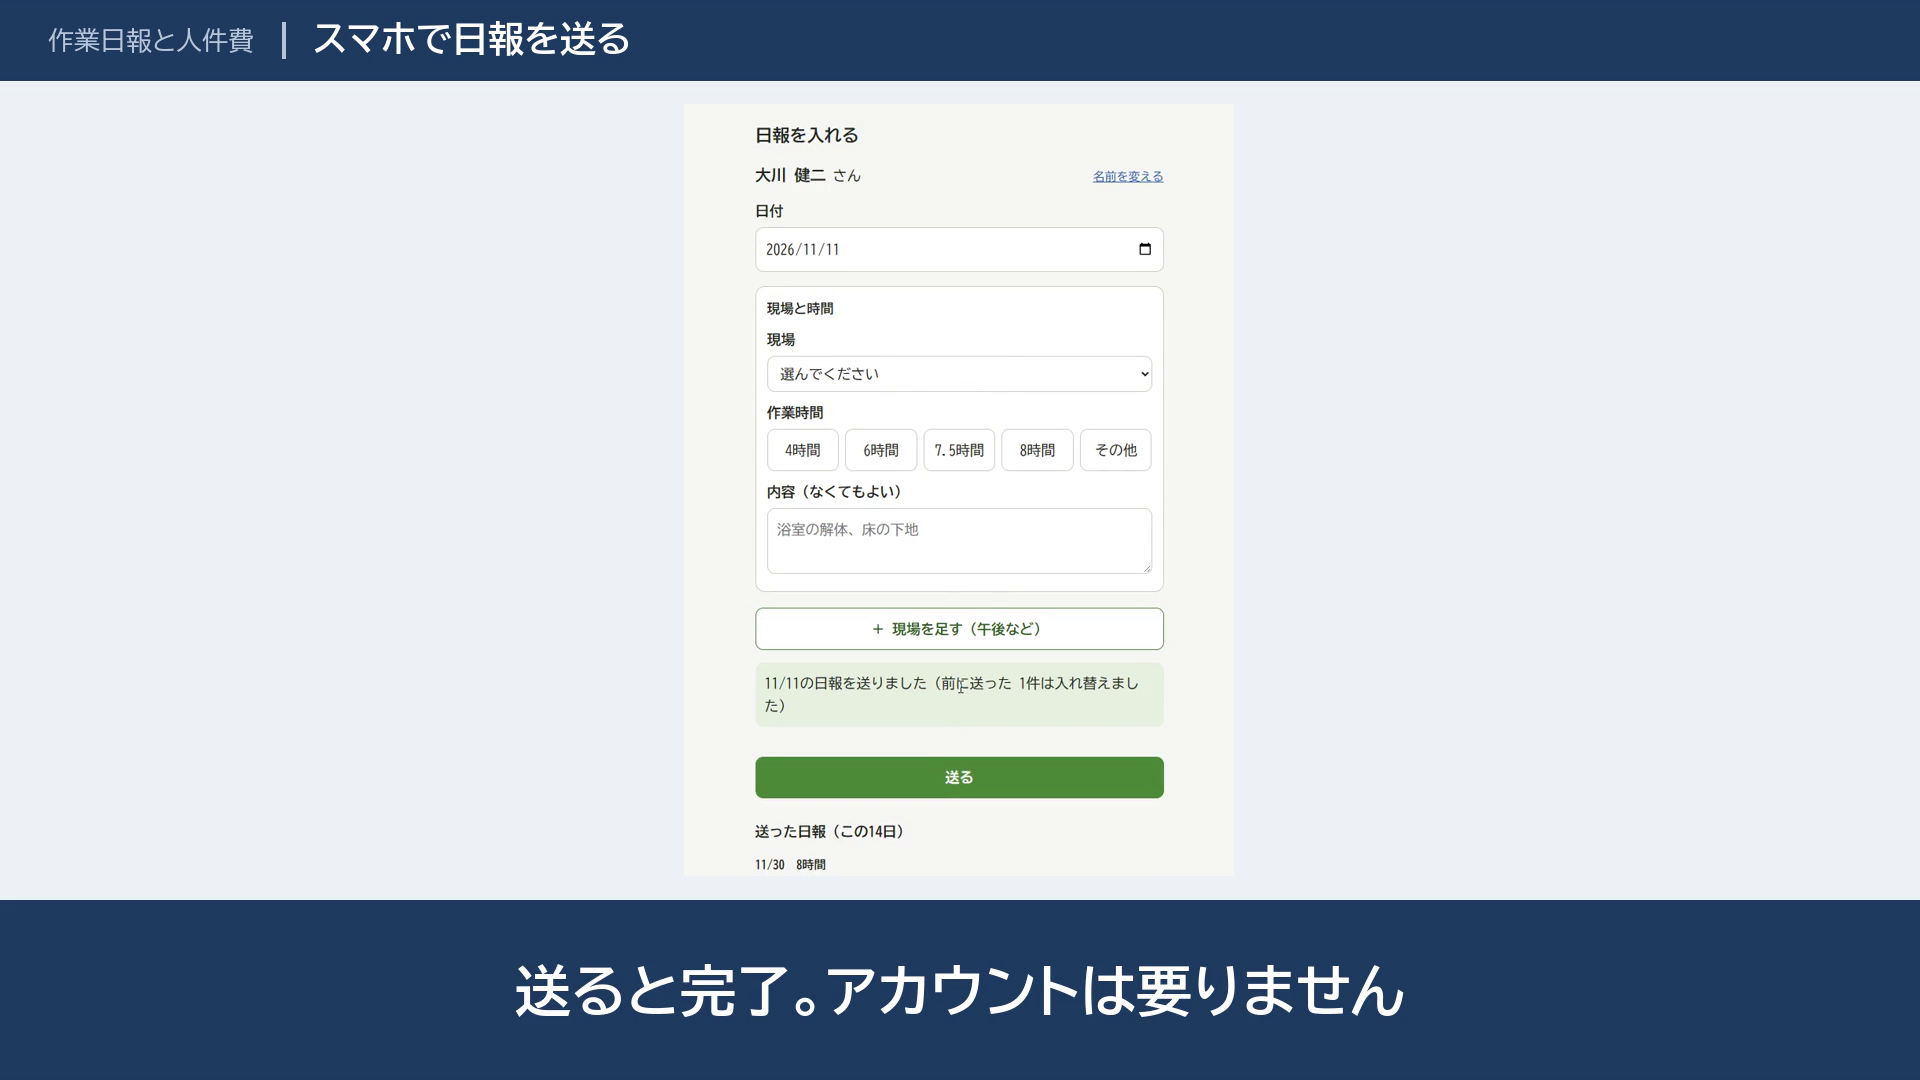
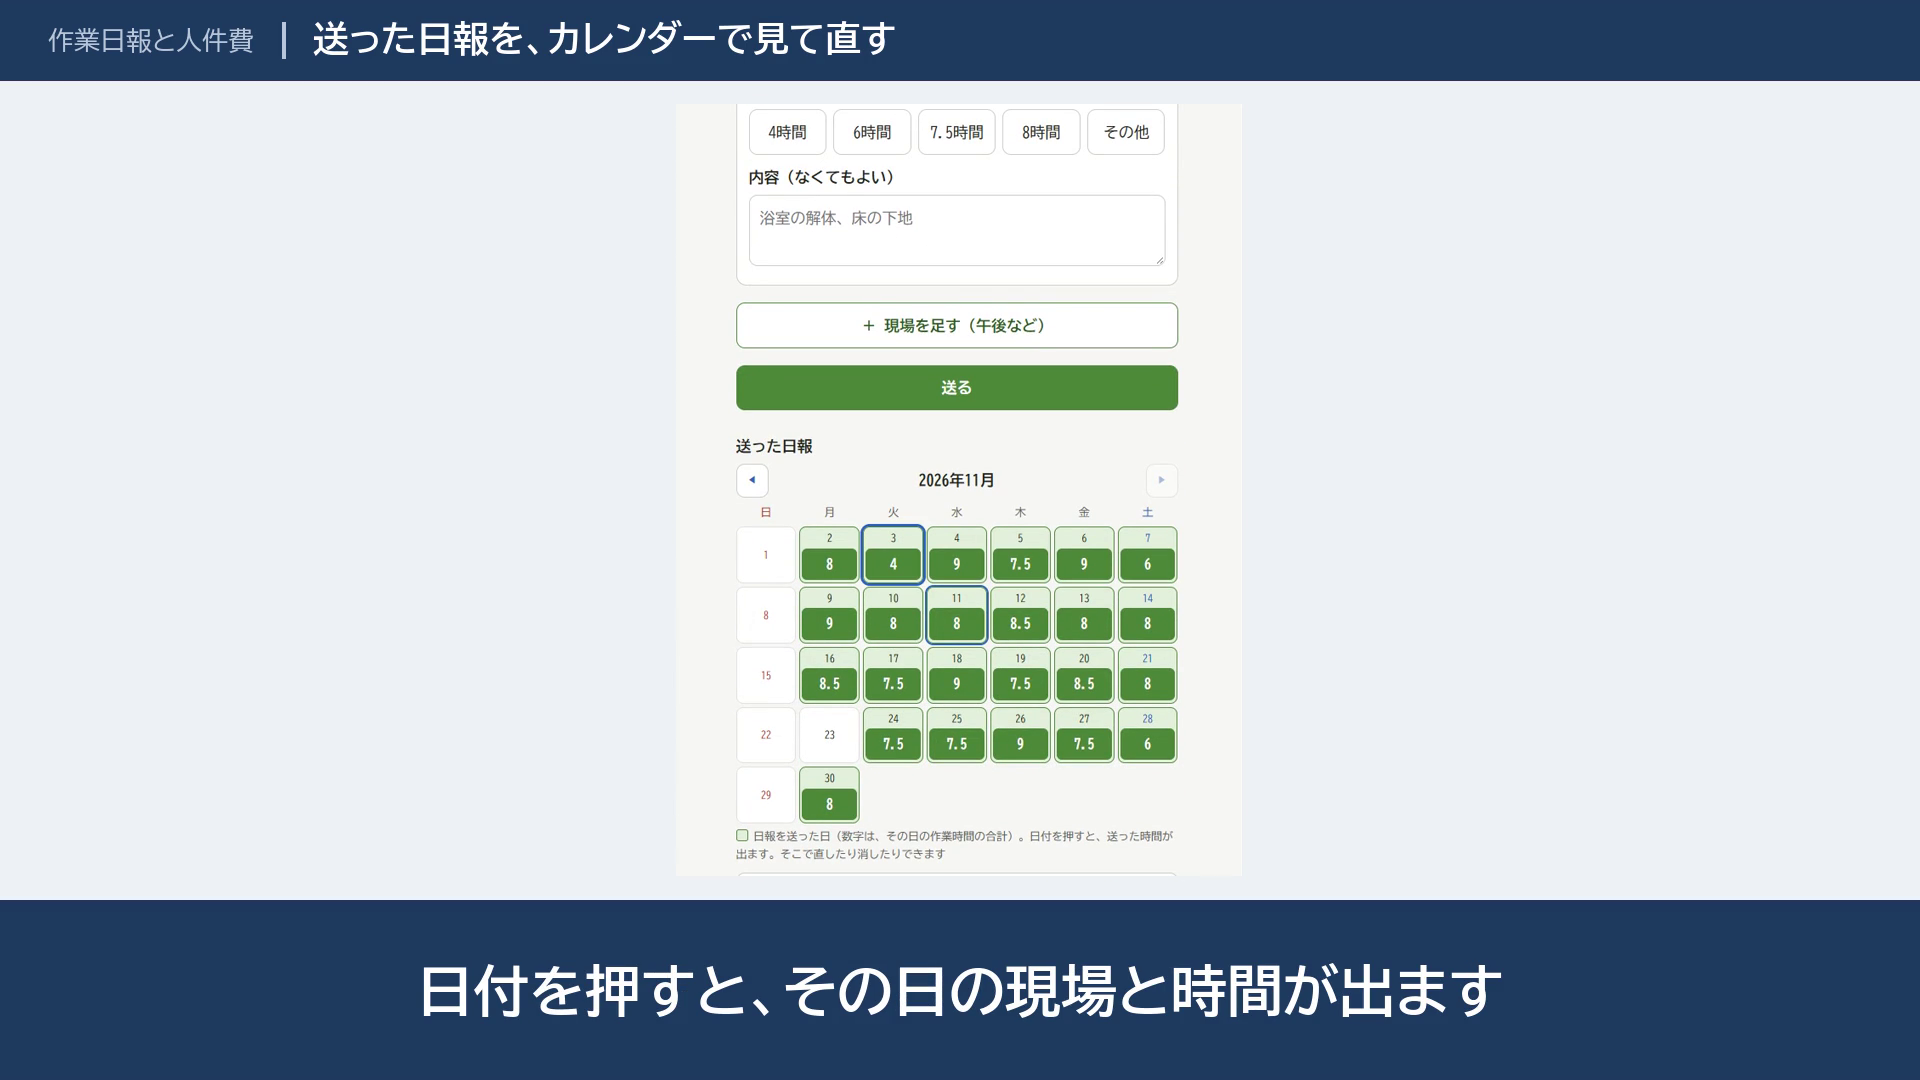
実績ページの06を、新しい動画（送った日報のカレンダー表示・直す・消す）と画像に更新する

diff --git a/index.html b/index.html
@@ -316,7 +316,7 @@ footer a { color:var(--ink); }
 <h2 class="group-h" id="small">小さく始める仕組み（スプレッドシート・Excel）</h2>
 <p class="group-p">従業員10人ほどの工務店を例にした6つと、卸の見積・納品・請求の Excel が1つ。どれも1〜2分の動画で、実際の画面を紹介しています。</p>
 <p class="group-note">削減時間は、月の件数と1件あたりの時間を仮に置いた試算で、時給2,000円で換算しています。お客さんの実際の数字で計算し直します。</p>
-<ul class="minis"><li id="s01"><img src="images/01-1.png" alt="お客さんがスマホで選ぶと、金額の幅（税込）が出る" loading="lazy" width="1920" height="1080"><div class="m-body"><span class="no">C01</span><h3>概算見積（WEB）</h3><p class="m-pain">概算の金額を電話・メールで聞かれ、返事が翌日になる</p><p class="m-eff"><b>年約40時間・約8万円分</b><a class="webok" href="web.html">WEB管理可能</a></p><p class="m-go"><a href="https://youtu.be/xjfs_oFX_Rw" target="_blank" rel="noopener">動画を見る</a></p></div></li><li id="s02"><img src="images/02-1.png" alt="WEB のフォームから送ると、台帳の「受付」に1行入る" loading="lazy" width="1920" height="1080"><div class="m-body"><span class="no">C02</span><h3>お問い合わせの記録と通知</h3><p class="m-pain">問い合わせを、メールや紙から台帳に書き写している</p><p class="m-eff"><b>年約22時間・約4.4万円分</b></p><p class="m-go"><a href="https://youtu.be/VqnUljA0n3E" target="_blank" rel="noopener">動画を見る</a></p></div></li><li id="s03"><img src="images/03-1.png" alt="品目を選んで数量を入れる「見積の入力」" loading="lazy" width="1920" height="1080"><div class="m-body"><span class="no">C03</span><h3>正式な見積書</h3><p class="m-pain">見積書を、前の Excel をコピーして打ち直している</p><p class="m-eff"><b>年約90時間・約18万円分</b></p><p class="m-go"><a href="https://youtu.be/_-2qiz1TLeg" target="_blank" rel="noopener">動画を見る</a></p></div></li><li id="s04"><img src="images/04-1.png" alt="「予定」を1行入れてカレンダーに反映する" loading="lazy" width="1920" height="1080"><div class="m-body"><span class="no">C04</span><h3>工程表とカレンダー</h3><p class="m-pain">職人さんに、夕方1人ずつ電話で予定を伝えている</p><p class="m-eff"><b>年約48時間・約9.6万円分</b></p><p class="m-go"><a href="https://youtu.be/U8hm_w8dHZQ" target="_blank" rel="noopener">動画を見る</a></p></div></li><li id="s05"><img src="images/05-1.png" alt="スマホで現場と区分を選んで写真を送る" loading="lazy" width="1920" height="1080"><div class="m-body"><span class="no">C05</span><h3>現場の写真と書類</h3><p class="m-pain">LINE で届いた現場の写真を、手でフォルダに分けている</p><p class="m-eff"><b>年約110時間・約22万円分</b></p><p class="m-go"><a href="https://youtu.be/v-evSr0hZZM" target="_blank" rel="noopener">動画を見る</a></p></div></li><li id="s06"><img src="images/06-1.png" alt="スマホで日付・現場・作業時間を選んで日報を送る" loading="lazy" width="1920" height="1080"><div class="m-body"><span class="no">C06</span><h3>作業日報と人件費</h3><p class="m-pain">紙の日報を集めて、現場ごとの人件費を手で足している</p><p class="m-eff"><b>年約46時間・約9万円分</b></p><p class="m-go"><a href="https://youtu.be/bPElbasnhRk" target="_blank" rel="noopener">動画を見る</a></p></div></li><li id="s07"><img src="images/07-1.png" alt="対象の売上を顧客ごとにまとめた確認の画面" loading="lazy" width="1920" height="1080"><div class="m-body"><span class="no">C07</span><h3>請求書の自動作成</h3><p class="m-pain">月末に、売上の表から請求書を1通ずつ作っている</p><p class="m-eff"><b>年約35時間・約7万円分</b></p><p class="m-go"><a href="https://youtu.be/rY_ovs0BVUg" target="_blank" rel="noopener">動画を見る</a></p></div></li><li id="sX01"><img src="images/X01-1.png" alt="動画の場面：ボタンで、見積書の PDF ができる" loading="lazy" width="1920" height="1080"><div class="m-body"><span class="no">X01</span><h3>見積書・納品書・請求書（Excel）</h3><p class="m-pain">見積書・納品書・請求書を、別々に打ち直している</p><p class="m-eff"><b>年約215時間・約43万円分</b></p><p class="m-go"><a href="https://youtu.be/3ar2R-4wTmQ" target="_blank" rel="noopener">動画を見る</a></p></div></li></ul>
+<ul class="minis"><li id="s01"><img src="images/01-1.png" alt="お客さんがスマホで選ぶと、金額の幅（税込）が出る" loading="lazy" width="1920" height="1080"><div class="m-body"><span class="no">C01</span><h3>概算見積（WEB）</h3><p class="m-pain">概算の金額を電話・メールで聞かれ、返事が翌日になる</p><p class="m-eff"><b>年約40時間・約8万円分</b><a class="webok" href="web.html">WEB管理可能</a></p><p class="m-go"><a href="https://youtu.be/xjfs_oFX_Rw" target="_blank" rel="noopener">動画を見る</a></p></div></li><li id="s02"><img src="images/02-1.png" alt="WEB のフォームから送ると、台帳の「受付」に1行入る" loading="lazy" width="1920" height="1080"><div class="m-body"><span class="no">C02</span><h3>お問い合わせの記録と通知</h3><p class="m-pain">問い合わせを、メールや紙から台帳に書き写している</p><p class="m-eff"><b>年約22時間・約4.4万円分</b></p><p class="m-go"><a href="https://youtu.be/VqnUljA0n3E" target="_blank" rel="noopener">動画を見る</a></p></div></li><li id="s03"><img src="images/03-1.png" alt="品目を選んで数量を入れる「見積の入力」" loading="lazy" width="1920" height="1080"><div class="m-body"><span class="no">C03</span><h3>正式な見積書</h3><p class="m-pain">見積書を、前の Excel をコピーして打ち直している</p><p class="m-eff"><b>年約90時間・約18万円分</b></p><p class="m-go"><a href="https://youtu.be/_-2qiz1TLeg" target="_blank" rel="noopener">動画を見る</a></p></div></li><li id="s04"><img src="images/04-1.png" alt="「予定」を1行入れてカレンダーに反映する" loading="lazy" width="1920" height="1080"><div class="m-body"><span class="no">C04</span><h3>工程表とカレンダー</h3><p class="m-pain">職人さんに、夕方1人ずつ電話で予定を伝えている</p><p class="m-eff"><b>年約48時間・約9.6万円分</b></p><p class="m-go"><a href="https://youtu.be/U8hm_w8dHZQ" target="_blank" rel="noopener">動画を見る</a></p></div></li><li id="s05"><img src="images/05-1.png" alt="スマホで現場と区分を選んで写真を送る" loading="lazy" width="1920" height="1080"><div class="m-body"><span class="no">C05</span><h3>現場の写真と書類</h3><p class="m-pain">LINE で届いた現場の写真を、手でフォルダに分けている</p><p class="m-eff"><b>年約110時間・約22万円分</b></p><p class="m-go"><a href="https://youtu.be/v-evSr0hZZM" target="_blank" rel="noopener">動画を見る</a></p></div></li><li id="s06"><img src="images/06-1.png" alt="送った日報を月のカレンダーで見る。日付を押すと、直す・消すができる" loading="lazy" width="1920" height="1080"><div class="m-body"><span class="no">C06</span><h3>作業日報と人件費</h3><p class="m-pain">紙の日報を集めて、現場ごとの人件費を手で足している</p><p class="m-eff"><b>年約46時間・約9万円分</b></p><p class="m-go"><a href="https://youtu.be/MSQ7HsFsN6Q" target="_blank" rel="noopener">動画を見る</a></p></div></li><li id="s07"><img src="images/07-1.png" alt="対象の売上を顧客ごとにまとめた確認の画面" loading="lazy" width="1920" height="1080"><div class="m-body"><span class="no">C07</span><h3>請求書の自動作成</h3><p class="m-pain">月末に、売上の表から請求書を1通ずつ作っている</p><p class="m-eff"><b>年約35時間・約7万円分</b></p><p class="m-go"><a href="https://youtu.be/rY_ovs0BVUg" target="_blank" rel="noopener">動画を見る</a></p></div></li><li id="sX01"><img src="images/X01-1.png" alt="動画の場面：ボタンで、見積書の PDF ができる" loading="lazy" width="1920" height="1080"><div class="m-body"><span class="no">X01</span><h3>見積書・納品書・請求書（Excel）</h3><p class="m-pain">見積書・納品書・請求書を、別々に打ち直している</p><p class="m-eff"><b>年約215時間・約43万円分</b></p><p class="m-go"><a href="https://youtu.be/3ar2R-4wTmQ" target="_blank" rel="noopener">動画を見る</a></p></div></li></ul>
 
 <section class="block" id="lp" aria-labelledby="lp-h">
   <h2 id="lp-h">LP の例</h2>
